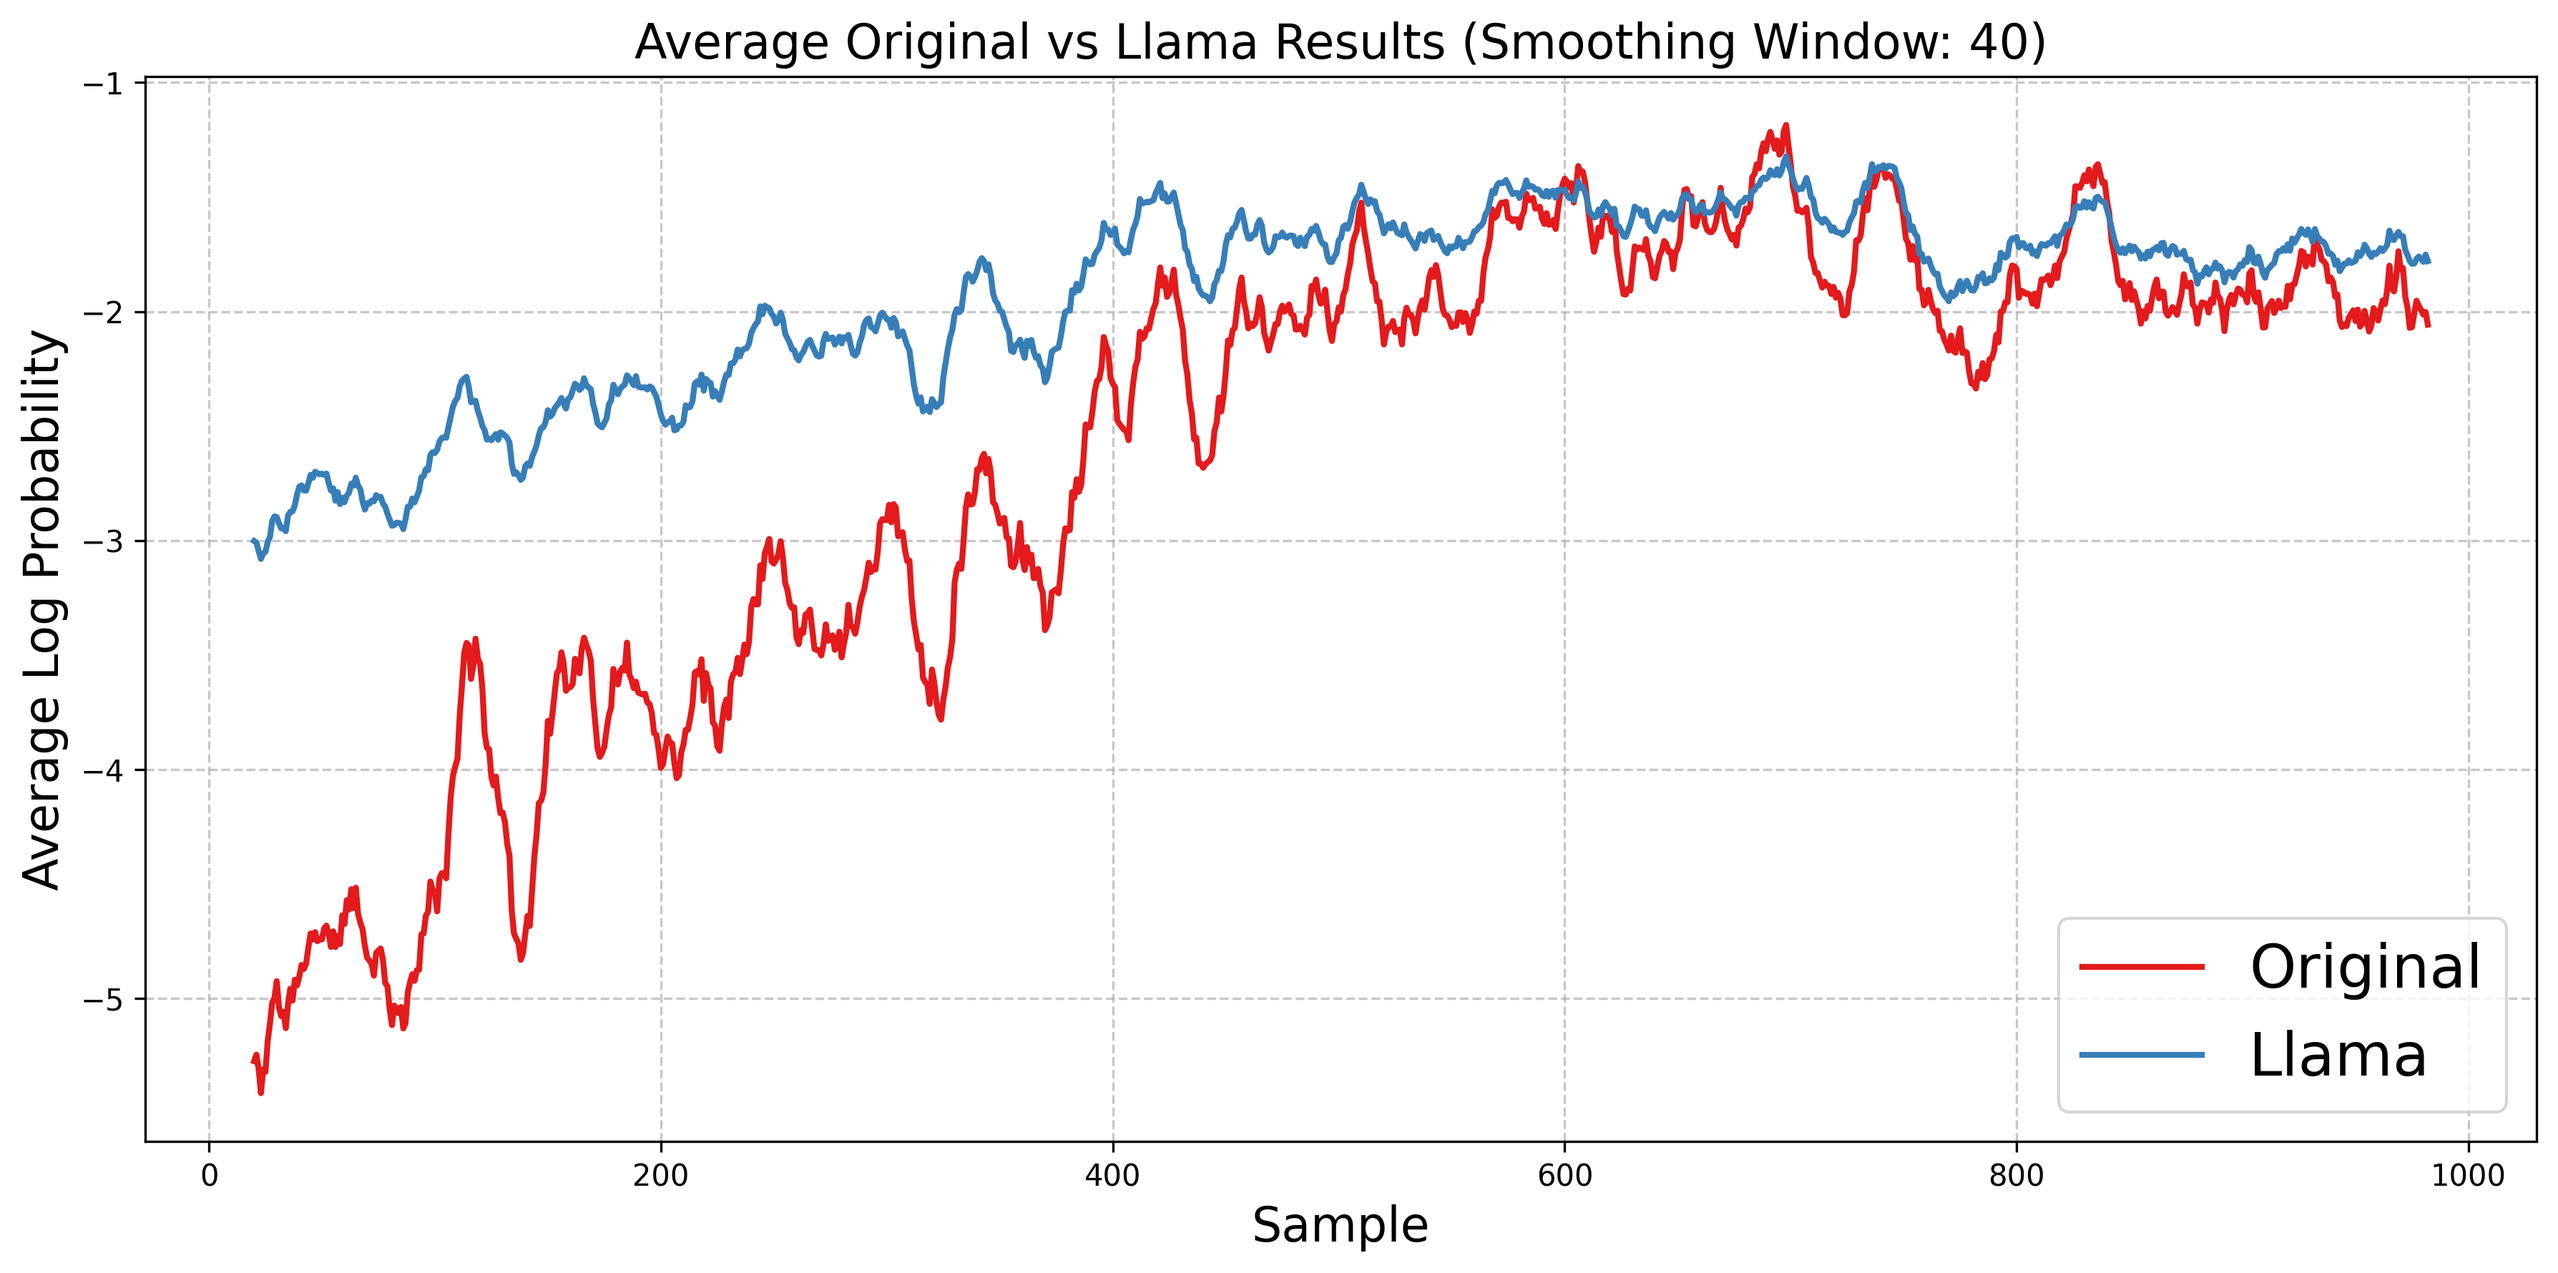
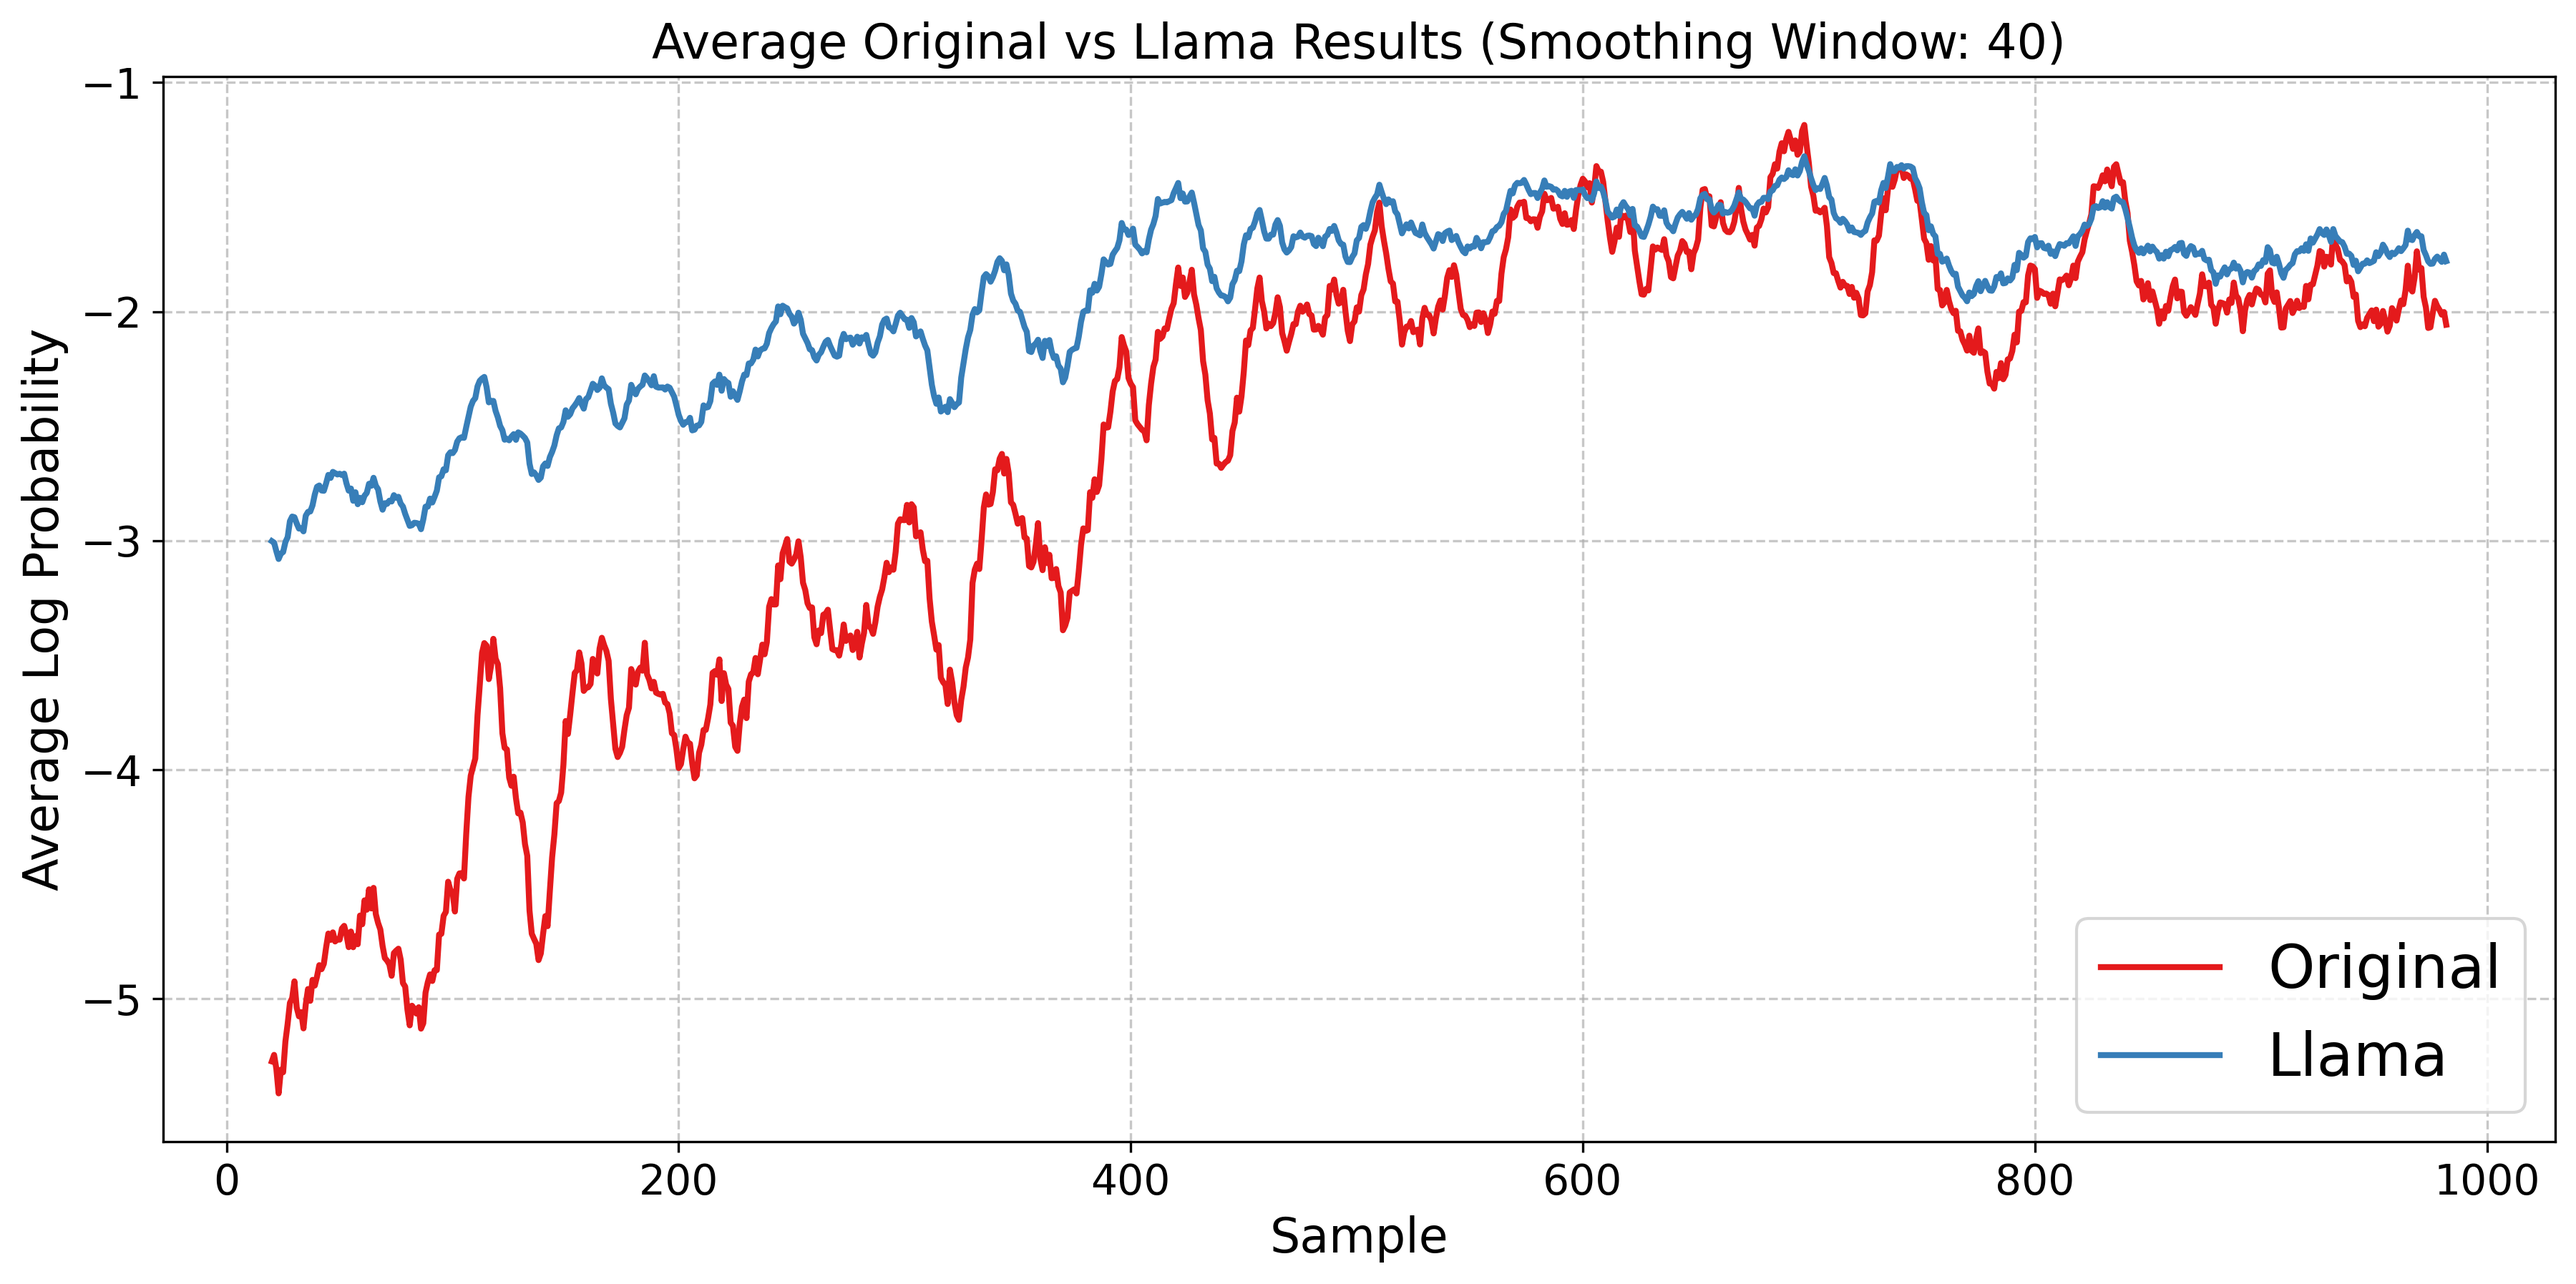
Larger numerical plot markers

diff --git a/src/perturb_CoT.py b/src/perturb_CoT.py
@@ -269,8 +269,11 @@ def plot_original_vs_llama(log_files, window_size=40, results_path="./results/9-
     plt.grid(True, linestyle="--", alpha=0.7)
     plt.tight_layout()
 
-    output_file = (
-        f"results/Official/average_original_vs_llama_plot_smooth{window_size}.png"
+    # Increase font size for tick labels
+    plt.tick_params(axis="both", which="major", labelsize=14)
+
+    output_file = os.path.join(
+        results_path, f"average_original_vs_llama_plot_smooth{window_size}.png"
     )
     plt.savefig(output_file, dpi=300, bbox_inches="tight")
     print(f"Plot saved to {output_file}")
@@ -350,8 +353,11 @@ def plot_results(log_files, window_size=40, results_path="./results/9-28-24"):
     plt.grid(True, linestyle="--", alpha=0.7)
     plt.tight_layout()
 
-    output_file = (
-        f"results/Official/average_perturbation_results_plot_smooth{window_size}.png"
+    # Increase font size for tick labels
+    plt.tick_params(axis="both", which="major", labelsize=14)
+
+    output_file = os.path.join(
+        results_path, f"average_perturbation_results_plot_smooth{window_size}.png"
     )
     plt.savefig(output_file, dpi=300, bbox_inches="tight")
     print(f"Plot saved to {output_file}")
